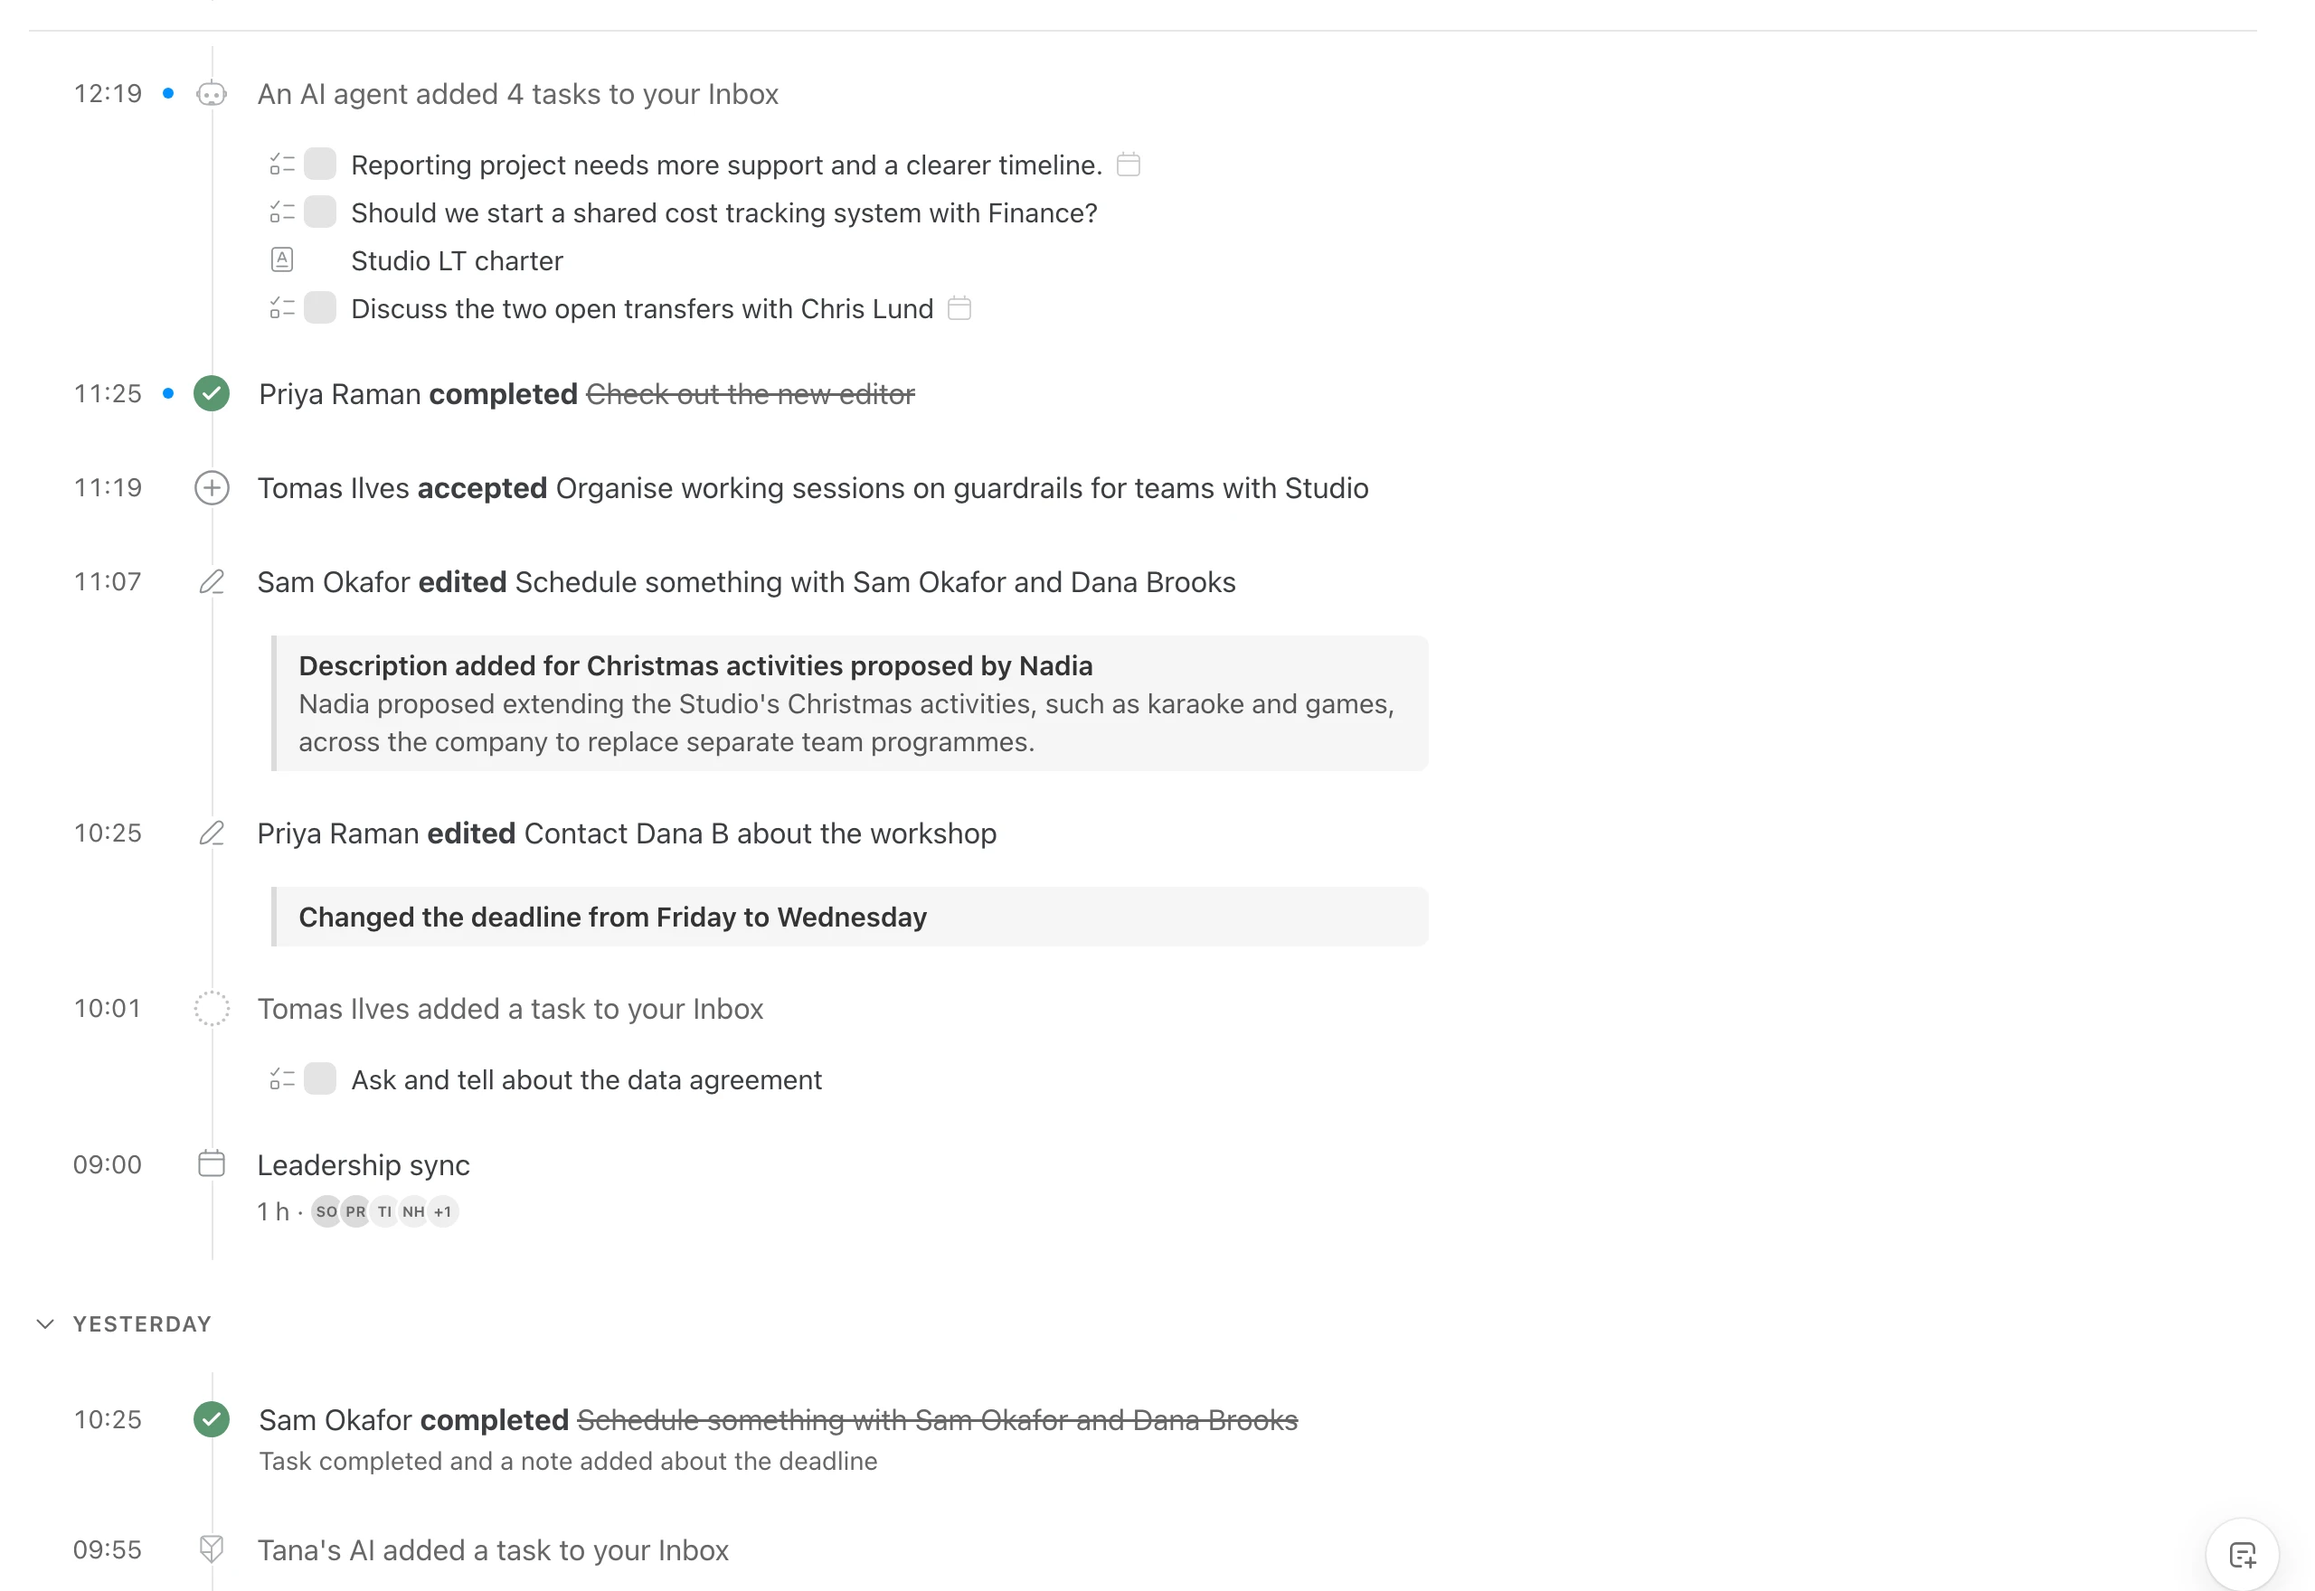
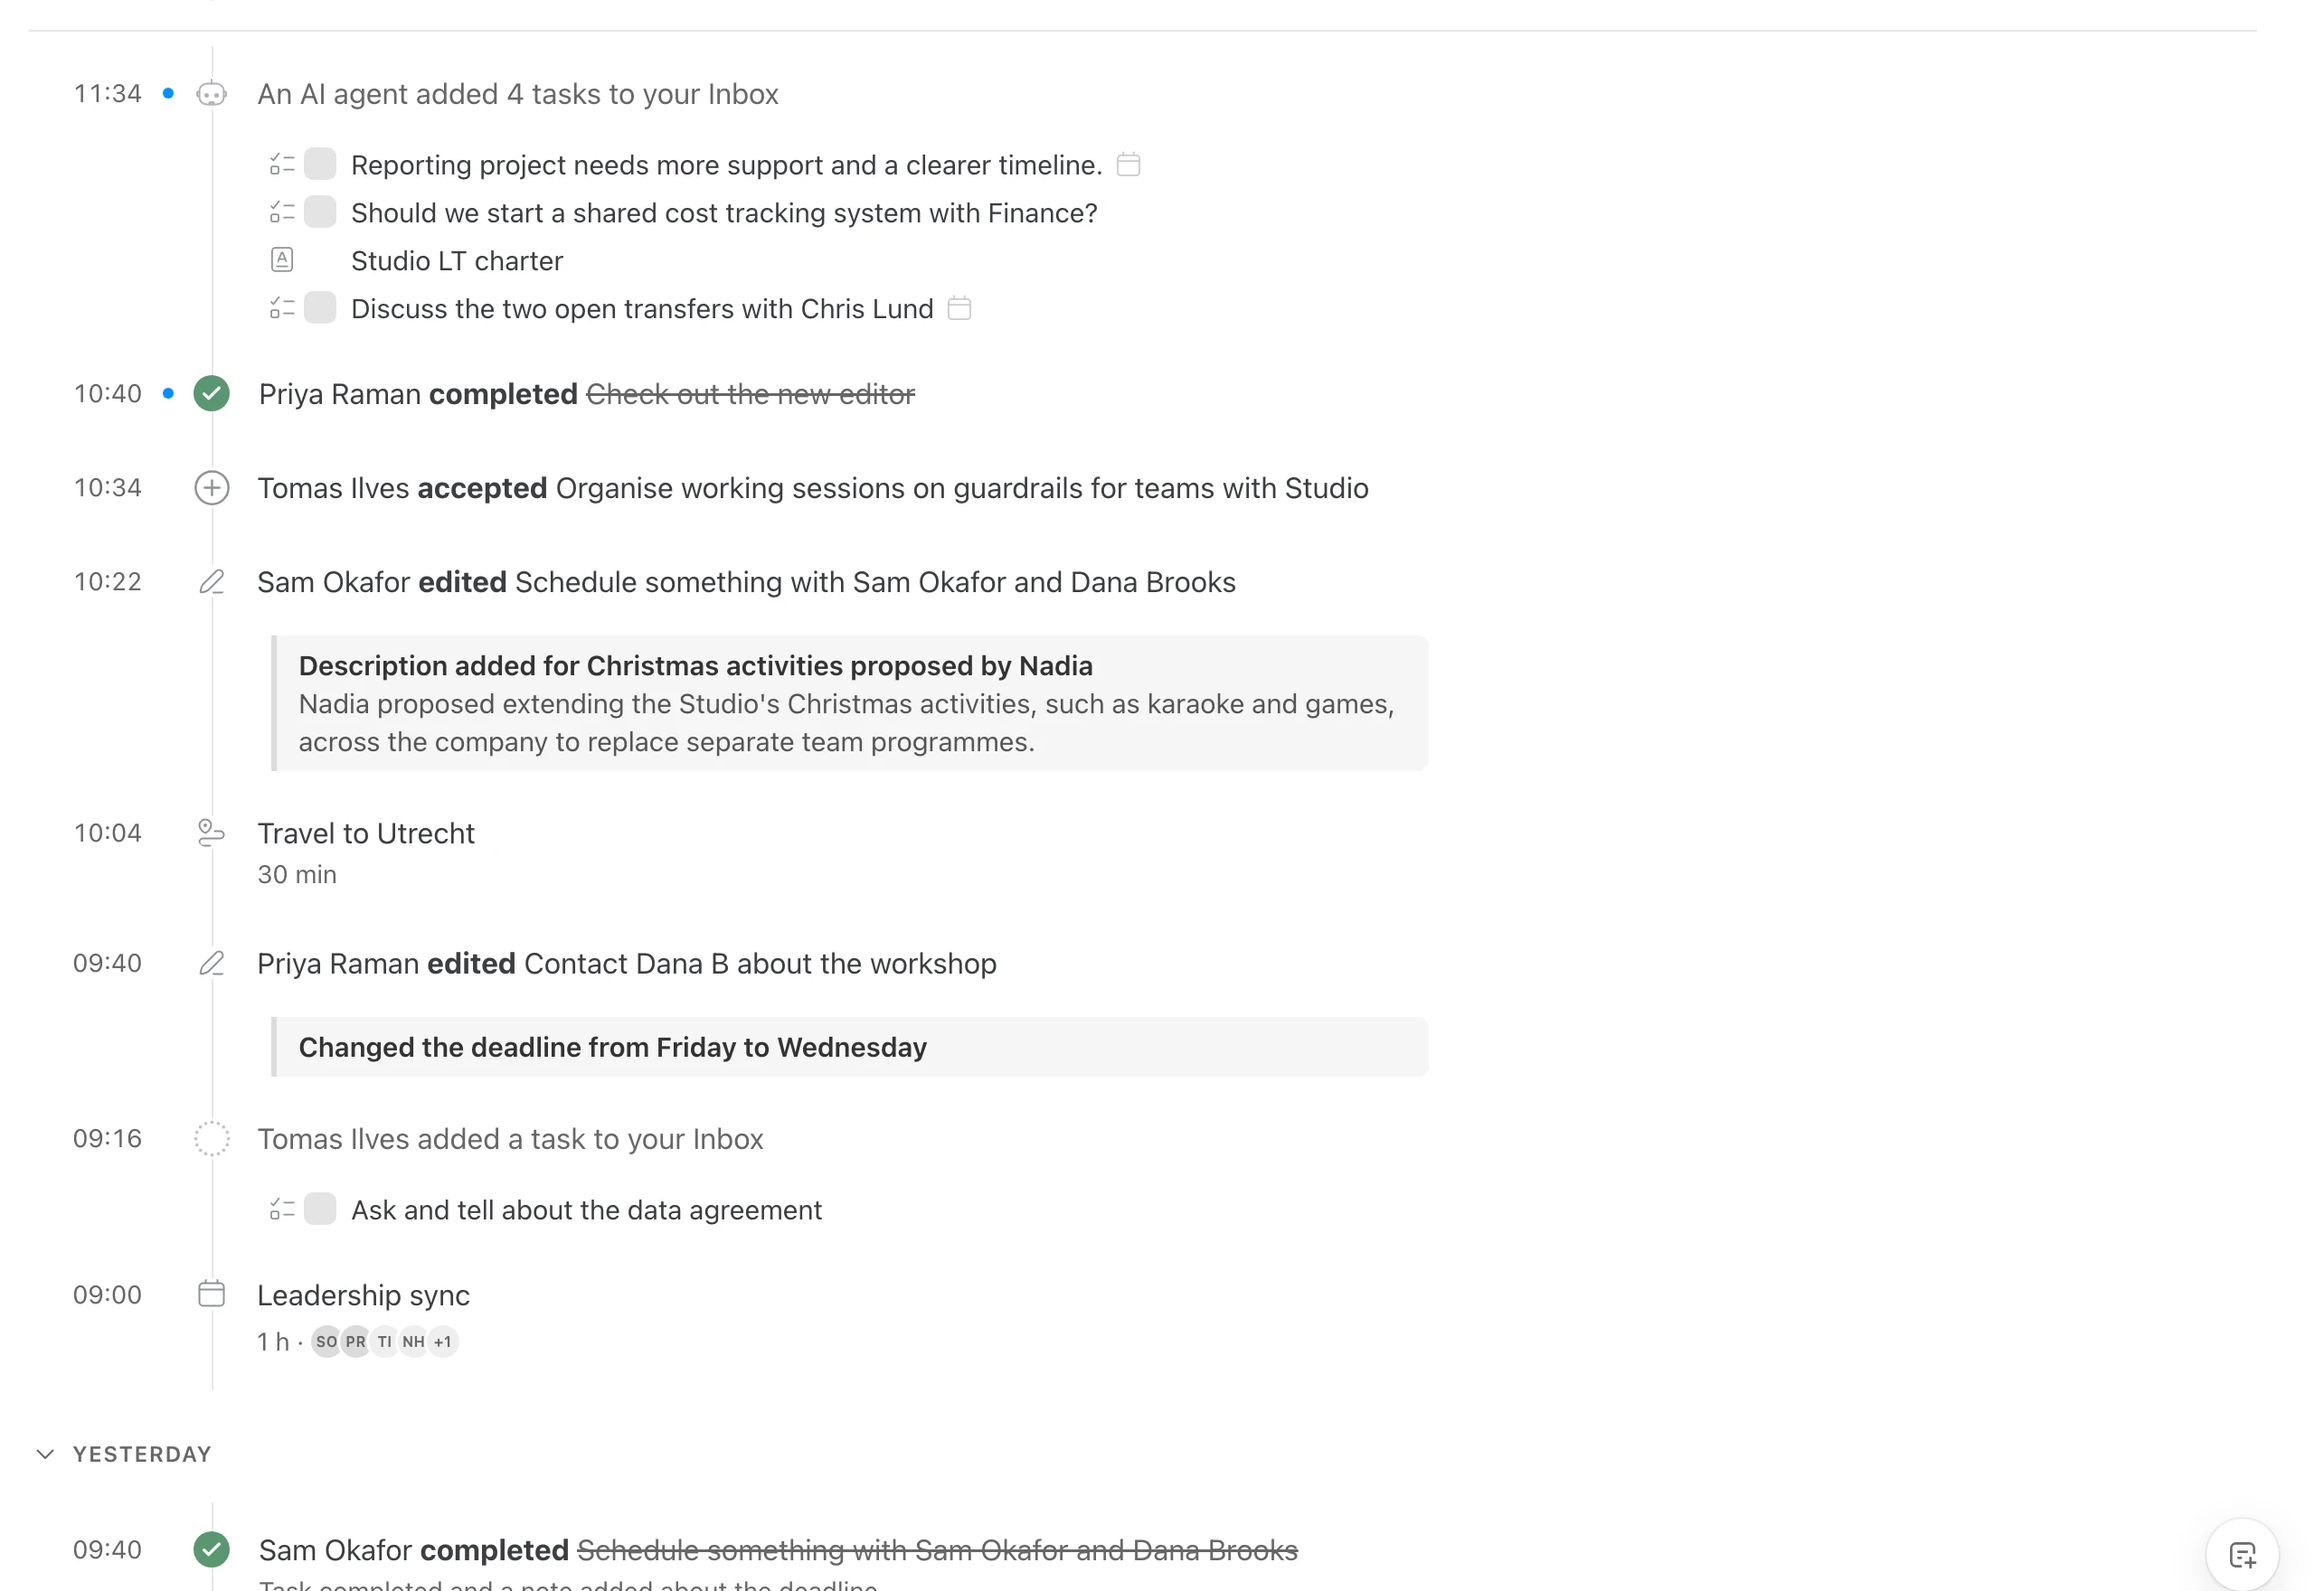
Review fixes: settings changed on another device applied as they arrive and the phone redrawn, a slow image upload carried on with, already-translated titles not asked again, Share only calls openURL where it exists, Timeline pictures show the Travel marker (#658)

diff --git a/ios/engine/index.js b/ios/engine/index.js
@@ -315,6 +315,11 @@ window.orbital = {
         const result = await list(params), app = new Set(settings.appDocIds());
         return { ...result, nodes: visibleGraphNodes(result.nodes).filter((n) => params.nodeIds || !app.has(n.id)) };
       });
+      // what another device writes to the settings document (a mark made sensitive on the Mac) read in as it arrives, as
+      // main/documents.js does, and the app told to read again (S.win below), so nothing stays unblurred until a pull
+      S.client.sync.on('change', (id) => {
+        if (id === settings.settingsDocId()) Promise.resolve(settings.applyRemote(id)).then(() => S.win.webContents.send('outline:changed'));
+      });
       S.client.sync.connect().catch((e) => issues.push('sync: ' + (e && e.message || e)));
     }
     return true;
@@ -519,7 +524,9 @@ window.orbital = {
     const { id, doc } = await create(String(title).slice(0, 200), { kind: kind === 'task' ? 'task' : 'doc' });
     for (const line of notes || []) insertAfter(doc, null, String(line));
     const uri = 'tana:image:' + ulid();
-    await hold(uri, (loro) => initImage(loro, { ownerUri: id, cid: up.cid, width: up.width, height: up.height, blurhash: up.blurhash, filename: 'image', mimeType, fileSize: bytes.length }));
+    // slow to answer, it is carried on with as the note itself is (create): a retry would make a second note
+    await hold(uri, (loro) => initImage(loro, { ownerUri: id, cid: up.cid, width: up.width, height: up.height, blurhash: up.blurhash, filename: 'image', mimeType, fileSize: bytes.length }))
+      .catch((e) => S.client.sync.getDocument(uri) || Promise.reject(e));
     insertImage(doc, null, uri);
     return JSON.stringify(id);
   },

diff --git a/ios/Orbital/Translator.swift b/ios/Orbital/Translator.swift
@@ -139,6 +139,7 @@ extension ChatGPT {
         guard let answer = try await respond(instructions(to), [["type": "input_text", "text": input]], model: model, schema: schema) else { return nil }
         struct Out: Decodable { struct One: Decodable { let id: Int; let lang: String?; let text: String? }; let translations: [One] }
         let out = try JSONDecoder().decode(Out.self, from: Data(answer.utf8))
-        return Dictionary(out.translations.compactMap { t in t.lang.flatMap { lang in t.text.map { (t.id, Translator.Answer(lang: lang, text: $0)) } } }, uniquingKeysWith: { a, _ in a })
+        // a null pair is the schema's "already in that language": kept as nothing to translate, so it is not asked again
+        return Dictionary(out.translations.map { t in (t.id, Translator.Answer(lang: t.lang ?? "", text: t.lang == nil ? "" : t.text ?? "")) }, uniquingKeysWith: { a, _ in a })
     }
 }

diff --git a/manual/scenes/timeline.js b/manual/scenes/timeline.js
@@ -7,6 +7,7 @@ const open = (id) => [W, { js: "goTo('" + id + "')" }, { wait: 900 }];
 const tag = (rowText, sel, id) => ({ js: "[...document.querySelectorAll('.node')].find((n) => n.textContent.includes(" + JSON.stringify(rowText) + ")).querySelector(" + JSON.stringify(sel) + ").id = " + JSON.stringify(id) });
 module.exports = [
   { name: 'timeline-now', setup: open('orbital:timeline'), clip: [0, 40, 1280, 560] },
+  // its meetings include Travel to Utrecht, drawn with the route marker (main/timeline.js meetingIcon)
   { name: 'timeline-history', size: '1280x1500', setup: open('orbital:timeline'), clip: [0, 600, 1280, 880] },
   { name: 'timeline-end', size: '1280x2000', setup: open('orbital:timeline'), clip: [0, 1480, 1280, 170] },
   { name: 'timeline-addmore', setup: open('orbital:timeline'), steps: [{ click: '.tl-add' }, { wait: 300 }, { type: 'board' }, { wait: 900 }],

diff --git a/ios/Share/ShareViewController.swift b/ios/Share/ShareViewController.swift
@@ -43,7 +43,7 @@ final class ShareViewController: UIViewController {
     private func open(_ url: URL) {
         var next: UIResponder? = self
         while let responder = next {
-            if let app = responder as? UIApplication {
+            if let app = responder as? UIApplication, app.responds(to: NSSelectorFromString("openURL:options:completionHandler:")) {
                 // called through its own three-argument signature: perform(_:with:with:) passes two, and the completion
                 // handler slot read garbage
                 let selector = NSSelectorFromString("openURL:options:completionHandler:")

diff --git a/ios/Orbital/Pages.swift b/ios/Orbital/Pages.swift
@@ -119,6 +119,7 @@ struct NodeScreen: View {
                 ProgressView()
             }
         }
+        .onChange(of: engine.sensitiveIds) { Task { await load() } } // marked or unmarked on another device: drawn again
         .navigationTitle(titled && !(page?.sensitive == true && !engine.reveal) ? engine.translator.words(page?.title ?? "", sensitive: page?.sensitive == true).0 : "")
         .navigationBarTitleDisplayMode(.inline)
         .task(id: engine.phase) {
